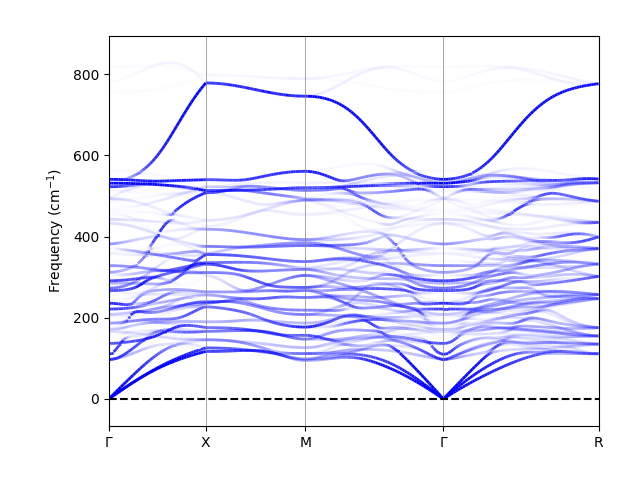
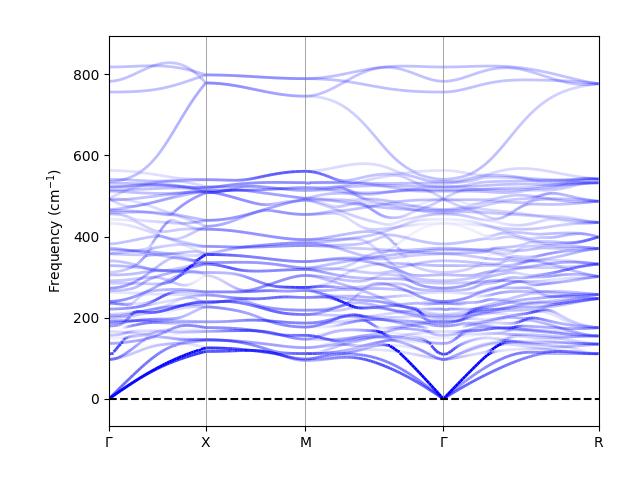
fix weight range < 0 or > 1 bug

diff --git a/unfolding/plotphon.py b/unfolding/plotphon.py
@@ -9,6 +9,12 @@ from ase.units import Bohr
 import os.path
 from collections import namedtuple
 
+def negative_to_zero(x):
+    # x is a numpy array, set negative values to zero
+    x[x < 0] = 0
+    x[x> 1] = 1
+    return x
+
 def plot_band_weight(kslist,
                      ekslist,
                      wkslist=None,
@@ -35,24 +41,31 @@ def plot_band_weight(kslist,
     if yrange is None:
         yrange = (np.array(ekslist).flatten().min() - 66,
                   np.array(ekslist).flatten().max() + 66)
+    #print(f"{np.max(wkslist)=}, {np.min(wkslist)=}")
+
+    wkslist=negative_to_zero(np.array(wkslist))
 
     if wkslist is not None:
         for i in range(len(kslist)):
             x = kslist[i]
             y = ekslist[i]
             lwidths = np.array(wkslist[i]) * width
-            #lwidths=np.ones(len(x))
             points = np.array([x, y]).T.reshape(-1, 1, 2)
             segments = np.concatenate([points[:-1], points[1:]], axis=1)
             if style == 'width':
                 lc = LineCollection(segments, linewidths=lwidths, colors=color)
             elif style == 'alpha':
+                alphas = [np.abs(lwidth / (width + 0.011))
+                        for lwidth in lwidths
+                    ]
+                #print(f"{np.max(alphas)=}, {np.min(alphas)=}")
+                #print(alphas)
                 lc = LineCollection(
                     segments,
                     linewidths=[2] * len(x),
                     colors=[
                         colorConverter.to_rgba(
-                            color, alpha=np.abs(lwidth / (width + 0.001)))
+                            color, alpha=np.abs(lwidth / (width + 0.011)))
                         for lwidth in lwidths
                     ])
 

diff --git a/unfolding/DDB_unfolder.py b/unfolding/DDB_unfolder.py
@@ -56,7 +56,8 @@ def DDB_unfolder(DDB_fname, kpath_bounds,sc_mat,knames=None, kx=None,dipdip=1):
     atoms = DDB.structure.to_ase_atoms()
     scaled_positions = struct.frac_coords
 
-    cell = struct.lattice_vectors()
+    #cell = struct.lattice_vectors()
+    cell = struct.lattice
     numbers = struct.atomic_numbers
     masses = [atomic_masses[i] for i in numbers]
 
@@ -112,7 +113,7 @@ def DDB_unfolder(DDB_fname, kpath_bounds,sc_mat,knames=None, kx=None,dipdip=1):
 
     #names = ['$\Gamma$', 'X', 'W', '$\Gamma$', 'L']
     #ax=plot_band_weight([list(x)]*freqs.shape[1],freqs.T*33.356,weights[:,:].T*0.98+0.01,xticks=[names,X],axis=ax)
-    ax=plot_band_weight([list(x)]*freqs.shape[1],freqs.T*8065.6,weights[:,:].T*0.98+0.01,xticks=[knames,xpts],style='alpha')
+    ax=plot_band_weight([list(x)]*freqs.shape[1],freqs.T*8065.6,weights[:,:].T*0.99+0.001,xticks=[knames,xpts],style='alpha')
     #ax=plot_band_weight([list(x)]*freqs.shape[1],freqs.T*8065.6,weights[:,:].T*0.98+0.000001,xticks=[knames, kx],style='alpha' )
 
     #plt.show()

diff --git a/unfolding/phonon_unfolder.py b/unfolding/phonon_unfolder.py
@@ -92,11 +92,18 @@ class phonon_unfolder:
             if self._phase:
                 #weight += np.vdot(evec, evec[ind]*np.exp(-1j * np.dot(qpt+G,r_i)) ) /N
                 #r_i =np.dot(self._scmat,r_i)
-                weight += np.vdot(evec, evec[ind])*np.exp(-1j *2 * np.pi * np.dot(qpt+G,r_i))  /N
+                weight += np.vdot(evec, evec[ind]*np.exp(-1j *2 * np.pi * np.dot(qpt+G,r_i)))  /N
             else:
-                weight += np.vdot(evec, evec[ind]) / N*np.exp(-1j *2 * np.pi * np.dot(G,r_i))  
+                weight += np.vdot(evec, evec[ind] / N*np.exp(-1j *2 * np.pi * np.dot(G,r_i)))  
 
-        return weight.real
+        #print("weight=", weight)
+        weight=weight.real
+        if weight<0.0:
+            weight=0.0
+        elif weight>1.0:
+            weight=1.0
+        #weight= (weight*(1.0-weight))**1.2
+        return weight
 
     def get_weights(self):
         """

diff --git a/unfolding/unfolder.py b/unfolding/unfolder.py
@@ -79,7 +79,7 @@ class Unfolder():
 
         self._trans_rs = rs
         self._trans_indices = indices
-        print(indices)
+        #print(indices)
 
     def get_weight(self, evec, qpt, G=None):
         """
@@ -92,7 +92,7 @@ class Unfolder():
         N = len(self._trans_rs)
         for r_i, ind in zip(self._trans_rs, self._trans_indices):
             weight += np.vdot(evec, evec[ind])/N *np.exp(1j*2*np.pi*np.dot(G, r_i))
-        print('w: ', weight)
+        #print('w: ', weight)
         return weight.real
 
 

diff --git a/examples/phonopy/run_unfold.py b/examples/phonopy/run_unfold.py
@@ -12,7 +12,7 @@ def run_unfolding():
     points = get_special_points('fcc', atoms.cell, eps=0.01)
     path_highsym = [points[k] for k in 'GXWGL']
     kpts, x, X = bandpath(path_highsym, atoms.cell, 300)
-    names = ['$\Gamma$', 'X', 'W', '$\Gamma$', 'L']
+    names = [r'$\Gamma$', r'X', r'W', r'$\Gamma$', r'L']
 
     # here is the unfolding. Here is an example of 3*3*3 fcc cell.
     ax = phonopy_unfold(

diff --git a/examples/CaTiO3_unfold/unfold.py b/examples/CaTiO3_unfold/unfold.py
@@ -6,7 +6,7 @@ def test():
     ax=DDB_unfolder('./out.DDB',
             sc_mat=[[1,-1,0],[1,1,0],[0,0,2]], 
             kpath_bounds=[[0,0,0],[0,.5,0], [.5,.5,0],[0,0,0],[.5,.5,.5]],
-            knames=['$\Gamma$', 'X','M', '$\Gamma$', 'R'],
+            knames=[r'$\Gamma$', 'X','M', r'$\Gamma$', 'R'],
             dipdip=0) 
     plt.savefig('unfolded.png')
     plt.show()
